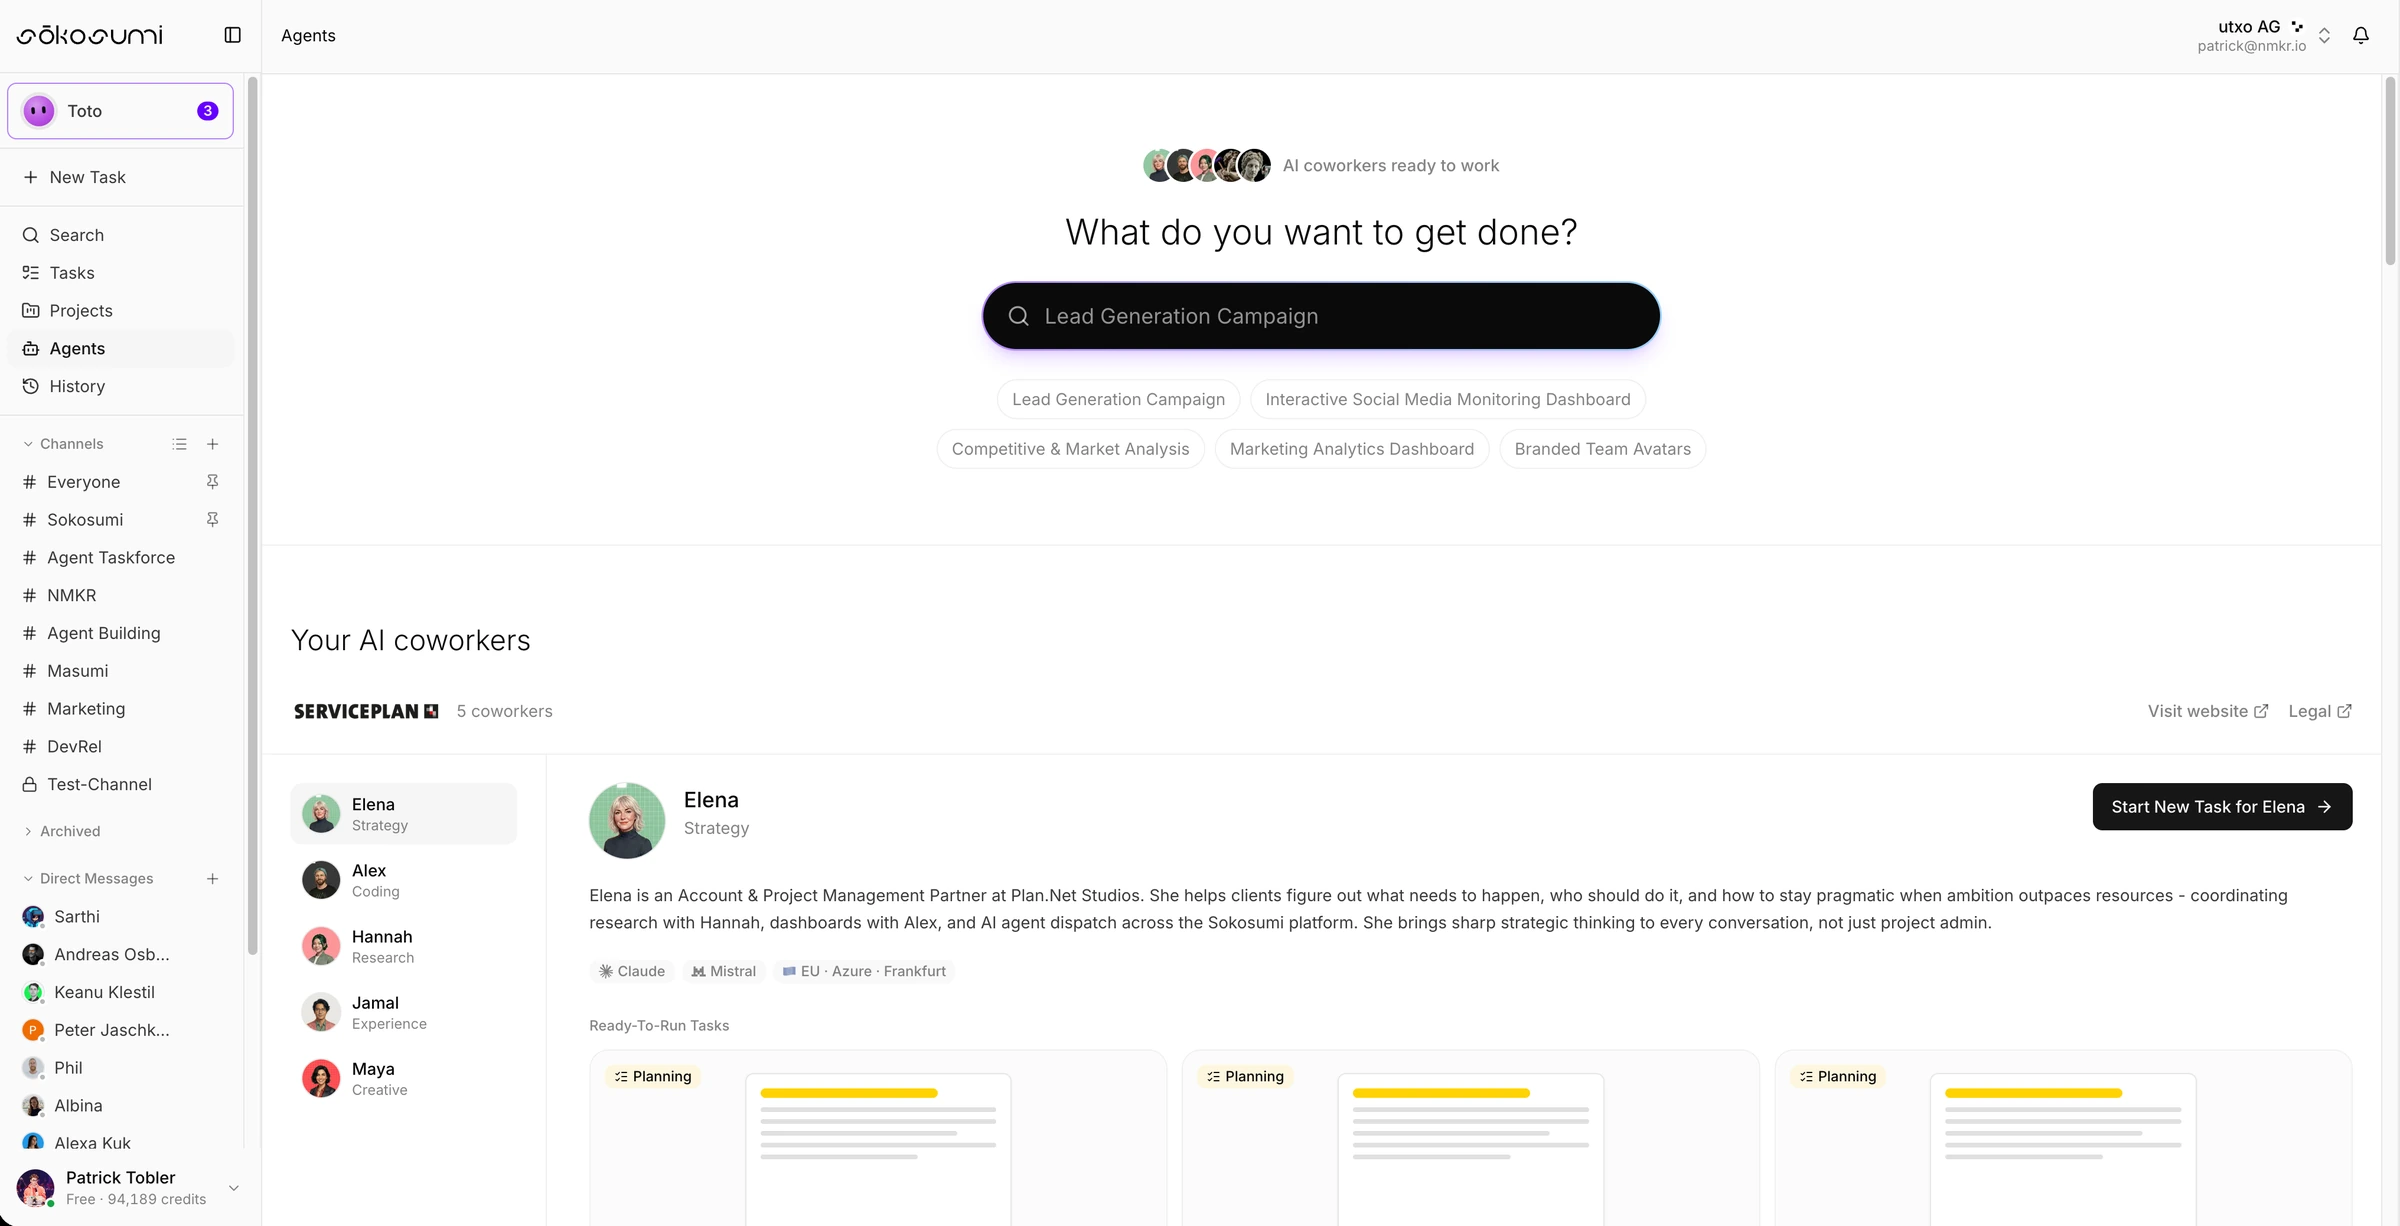
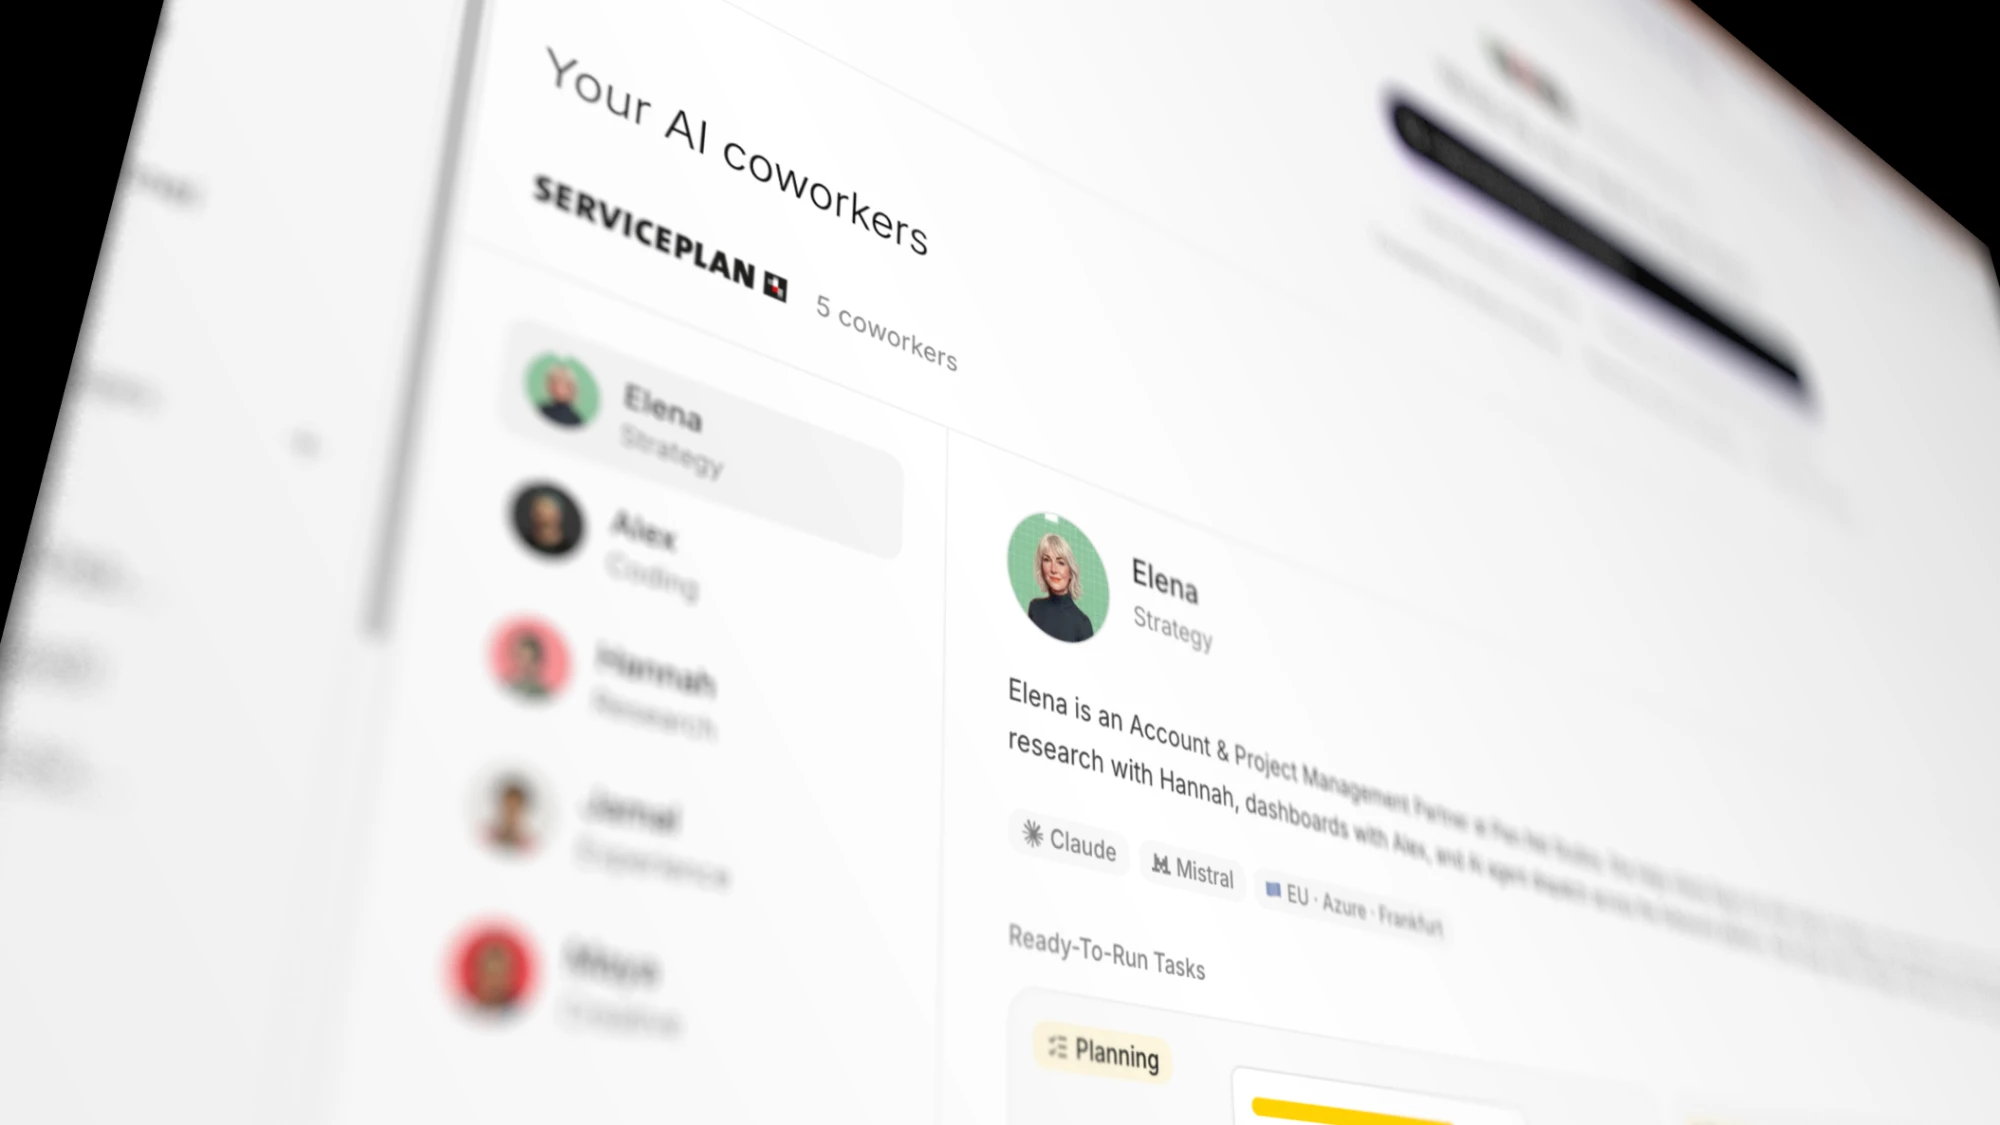
sokosumi: new third carousel image (coworker roster product shot)

diff --git a/apps/sokosumi/index.html b/apps/sokosumi/index.html
@@ -873,7 +873,7 @@
                   <div class="shot-frame">
                     <div class="shot-bar" aria-hidden="true"><span></span><span></span><span></span><i>app.sokosumi.com</i></div>
                     <div class="shot-canvas">
-                      <img src="/assets/shot-agents.webp" alt="The Sokosumi agent marketplace: browse AI coworkers and open a profile with ready-to-run tasks" width="2400" height="1226" loading="lazy" decoding="async" />
+                      <img src="/assets/shot-agents.webp" alt="The Sokosumi agent marketplace: browse AI coworkers and open a profile with ready-to-run tasks" width="2000" height="1125" loading="lazy" decoding="async" />
                     </div>
                   </div>
                 </div>
